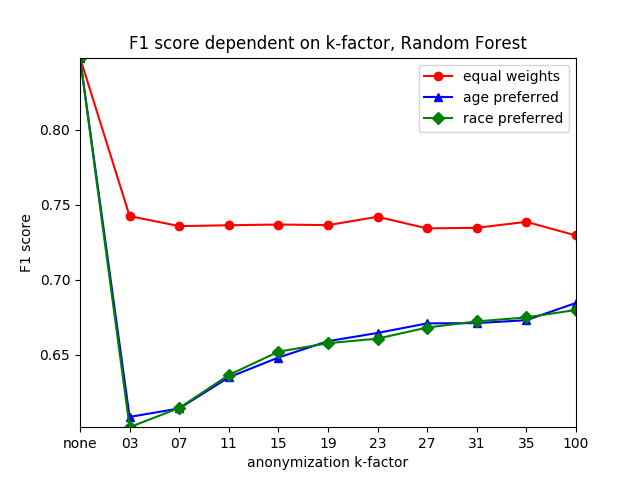
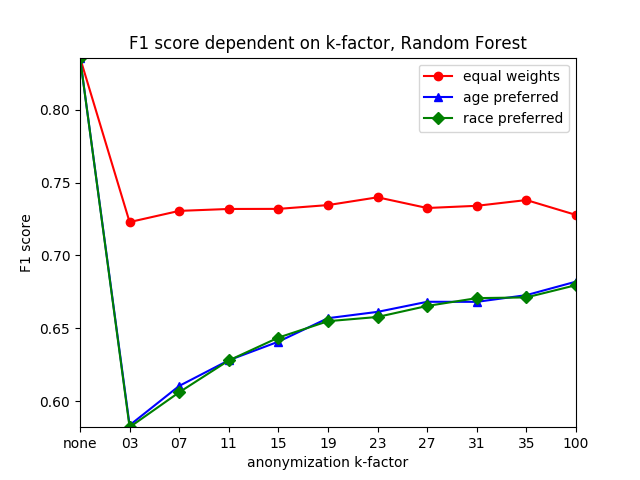
improved pre-processing - now logistic regression as well as linear SVC produce expected behavior

diff --git a/src/multi_class/main_workflow.py b/src/multi_class/main_workflow.py
@@ -30,11 +30,13 @@ What is happening where?
 
 
 import os, csv, glob
+import pandas as pd
 import numpy as np
 import importlib
 import input_preproc
 import sklearn.cross_validation as cross_validation
 from sklearn.model_selection import KFold
+import sklearn.preprocessing as preprocessing
 
 
 CROSS_VALIDATION_K = 10
@@ -137,6 +139,10 @@ def main_workflow():
                     # print "test_index: " + str(test_index)
                     X_train, y_train = X[train_index], y[train_index]
                     X_test, y_test = X[test_index], y[test_index]
+
+                    scaler = preprocessing.StandardScaler()
+                    X_train = pd.DataFrame(scaler.fit_transform(X_train))  # , columns=X_train.columns)
+                    X_test = scaler.transform(X_test)
 
                     precision, recall, f1_score = algorithm.runClassifier(X_train, X_test, y_train, y_test)
                     precisions.append(precision)

diff --git a/src/multi_class/logistic_regression.py b/src/multi_class/logistic_regression.py
@@ -1,11 +1,11 @@
-from sklearn import ensemble
 import input_preproc
 import calculate_metrics
 import sklearn.linear_model as linear_model
 
 
 def runClassifier(X_train, X_test, y_train, y_test):
-  # LOGISTIC REGRESSION
+
+  # LOGISTIC REGRESSION Model
   cls = linear_model.LogisticRegression(
     class_weight="balanced", # default = None
     max_iter=1000, # default = 100
@@ -21,6 +21,14 @@ def runClassifier(X_train, X_test, y_train, y_test):
   print("%.6f %.6f %.6f" % (precision, recall, f1))
 
   return precision, recall, f1
+
+
+# def showMostCriticalColumns():
+#   coefs = pd.Series(cls.coef_[0], index=X_train.columns)
+#   coefs.sort_values(inplace=True)
+#   ax = plt.subplot(2, 1, 1)
+#   coefs.plot(kind="bar", rot=90)
+#   plt.show()
 
 
 if __name__ == "__main__":

diff --git a/src/binary_class/plotting.py b/src/binary_class/plotting.py
@@ -78,7 +78,7 @@ def plotAnonymizationResults(results):
   rect = fig.patch
   rect.set_facecolor('white')
 
-  title_algo = "Gradient Boosting"
+  title_algo = "Random Forest"
   plt.title("F1 score dependent on k-factor, %s" % (title_algo) )
 
   equal_line, = plt.plot(equal_line_f1, marker='o', linestyle='-', color='r', label="equal weights")
@@ -199,7 +199,7 @@ if __name__ == "__main__":
   algorithm = "random_forest"
   target = "education_num"
 
-  results = readResultsIntoHash(gradient_boost_file)
+  results = readResultsIntoHash(random_forest_file)
   plotAnonymizationResults(results)
   # plotPerturbationResultsTop3(results)
   # plotPerturbationResultsBottom3(results)

diff --git a/src/binary_class/logistic_regression.py b/src/binary_class/logistic_regression.py
@@ -154,6 +154,8 @@ def runLogisticRegression(input_file):
       binary_data[binary_data.columns.difference(["income"])],
       binary_data["income"], train_size=0.80)
 
+
+  # Scale attribute ranges
   scaler = preprocessing.StandardScaler()
   X_train = pd.DataFrame(scaler.fit_transform(X_train), columns=X_train.columns)
   X_test = scaler.transform(X_test)

diff --git a/src/multi_class/gradient_boosting.py b/src/multi_class/gradient_boosting.py
@@ -6,6 +6,7 @@ import calculate_metrics
 def runClassifier(X_train, X_test, y_train, y_test):
   # GRADIENT BOOSTING
   cls = ensemble.GradientBoostingClassifier(
+    n_estimators=100,
     learning_rate=0.1,
     max_depth=5,
     verbose=0
